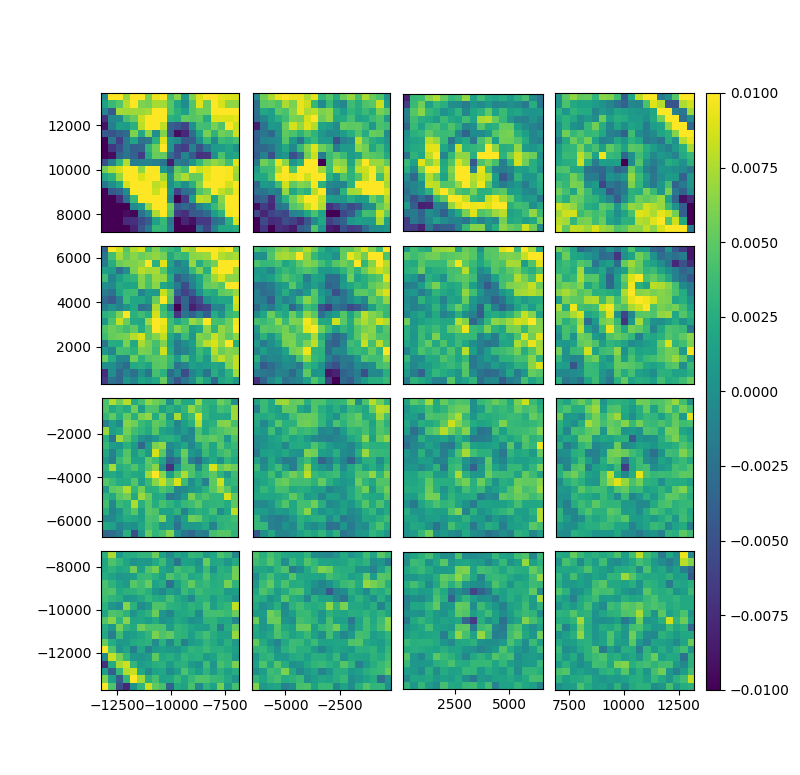
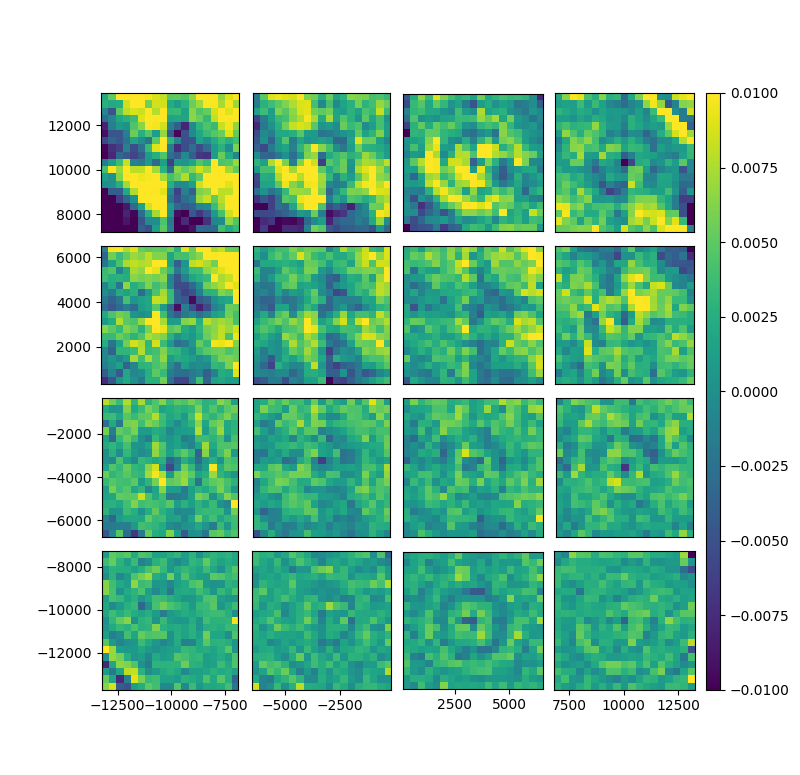
Lot of changes in BS

Changed region(s): [[0.0625, 0.1239, 0.875, 0.929]]

diff --git a/ziff/stats.py b/ziff/stats.py
@@ -6,7 +6,7 @@
 # Author:            Romain Graziani <romain.graziani@clermont.in2p3.fr>
 # Author:            $Author: rgraziani $
 # Created on:        $Date: 2020/10/02 10:48:39 $
-# Modified on:       2020/10/05 17:06:13
+# Modified on:       2020/10/06 10:46:45
 # Copyright:         2019, Romain Graziani
 # $Id: stats.py, 2020/10/02 10:48:39  RG $
 ################################################################################
@@ -72,49 +72,52 @@ class BinnedStatistic(object):
     def set_nbins(self, nbins):
         self._nbins = nbins
 
-    def get_1d_hist(self, x, values, statistic = 'median'):
-        if isinstance(x,str):
-            x = self._shapes[x]
-        bins = np.linspace(np.min(x),np.max(x),self.nbins)
-        return bins, binned_statistic(x, values, statistic = statistic, bins = bins)
+    def get_1d_bs(self, x_key, v_key, group = None, statistic = 'median', norm_key = None , norm_groupby = ['fracday','ccd'], norm_stat = 'median', nbins=None):
+        if group is not None:
+            group = self._groupby.get_group(group)
+        else:
+            group = self._shapes
+        if nbins is None:
+            nbins = self._nbins
+        flag = self.get_flag(group)
+        group  = group[flag]
+        bins = np.linspace(np.min(group[x_key]),np.max(group[x_key]), nbins)
+        normalization = self.get_normalization(group, norm_key, norm_groupby, norm_stat)
+        return bins, binned_statistic(group[x_key], group[v_key]/normalization, statistic = statistic, bins = bins)
+
+    def show_1d_bs(self, x_key, v_key, group = None, statistic = 'median', norm_key = None , norm_groupby = ['fracday','ccd'], norm_stat = 'median', nbins=None, **kwargs):
+        fig, ax = plt.subplots()
+        bins, bs = self.get_1d_bs(x_key, v_key, group = group, statistic = statistic, norm_key = norm_key , norm_groupby = norm_groupby, norm_stat = norm_stat, nbins=nbins)
+        default_kwargs = {'marker':'.', 'linestyle':''}
+        ax.plot(bins[0:-1],bs[0],**{**default_kwargs,**kwargs})
+        ax.set_xlabel(x_key)
+        ax.set_ylabel('{} (normed : {})'.format(v_key, norm_key))
+        ax.set_title('{}'.format(statistic))
+        return fig, ax
 
     def get_normalization(self, df = None,  norm_key = None , norm_groupby = ['fracday','ccd'], norm_stat = 'median'):
+        if norm_key is None:
+            return 1
         if df is None:
             df =  self._shapes
         return getattr(df.groupby(norm_groupby),norm_key).transform(norm_stat).values
-    
-    def get_group_1d_hist(self, x, key, group,  statistic = 'median', norm_key = None , norm_groupby = ['fracday','ccd'], norm_stat = 'median', **kwargs):
-        group = self._groupby.get_group(group)
-        flag = self.get_flag(group)
-        group = group[flag]
-        if isinstance(x,str):
-            x = group[x]
-        if norm_key is not None:
-            normalization = self.get_normalization(group, norm_key, norm_groupby, norm_stat)
+
+    def get_spatial_bs(self, key, group = None,  statistic = 'median', norm_key = None , norm_groupby = ['fracday','ccd'], norm_stat = 'median'):
+        if group is not None:
+            group = self._groupby.get_group(group)
         else:
-            normalization  = 1
-        return self.get_1d_hist(x, group[key].values/normalization, statistic = statistic)
-
-
-    def get_uv_hist(self, u, v, data, statistic = 'median'):
-        bins_u, bins_v = self.get_bins(u,v)
-        return bins_u, bins_v, binned_statistic_2d(u, v, data, statistic=statistic, bins=[bins_u,bins_v]).statistic
-
-    def get_group_uv_hist(self, key, group, statistic = 'median', norm_key = None , norm_groupby = ['fracday','ccd'], norm_stat = 'median'):
-        group = self._groupby.get_group(group)
+            group = self._shapes
         flag = self.get_flag(group)
-        group = group[flag]
-        if norm_key is not None:
-            normalization = self.get_normalization(group, norm_key, norm_groupby, norm_stat)
-        else:
-            normalization  = 1
-        return self.get_uv_hist(group['u'].values, group['v'].values, group[key].values/normalization, statistic = statistic)
+        group  = group[flag]
+        bins_u, bins_v = self.get_bins(group['u'],group['v'])
+        normalization = self.get_normalization(group, norm_key, norm_groupby, norm_stat)
+        return bins_u, bins_v, binned_statistic_2d(group['u'], group['v'], group[key]/normalization, statistic=statistic, bins=[bins_u,bins_v]).statistic
 
     def show_focal_plane(self, key, label = '', imshow_kwargs = {}, **hist_kwargs):
         fig, gs = make_focal_plane()
         for ccd in range(1,17):
             ax, i, j = get_ax_ccd(fig, gs, ccd)
-            bins_u, bins_v, hist = self.get_group_uv_hist(key, ccd, **hist_kwargs)
+            bins_u, bins_v, hist = self.get_spatial_bs(key, ccd, **hist_kwargs)
             default_imshow_kwargs =  {'cmap' : 'viridis', 'origin':'lower', 'extent' : (bins_u[0],bins_u[-1],bins_v[0],bins_v[-1])}
             im = ax.imshow(hist.T, **{**default_imshow_kwargs,**imshow_kwargs})
             if i<3:

diff --git a/README.md b/README.md
@@ -258,6 +258,6 @@ But if you want to check the first exposure for instance:
 ```python
 bs = BinnedStatistic(shapes, groupby=['fracday'])
 group = bs.groups[0]
-fig, ax = bs.scatter_plot_group(group, 'T_data', s=5,vmin=0.7,vmax=1.5)
+fig, ax = bs.scatter_plot_group(group, 'T_data', s=5,vmin=1.05,vmax=1.25)
 ```
 ![](examples/figures/focalplane_scatter_fracday.png)
